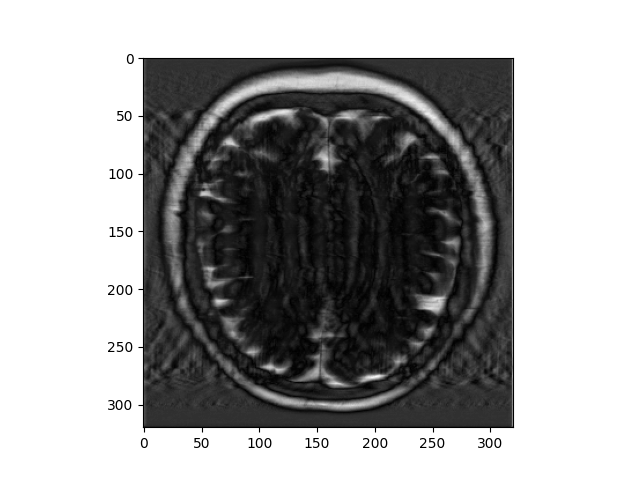
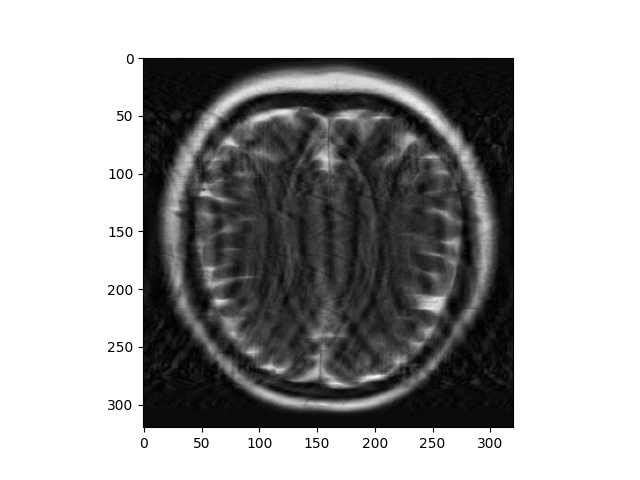
Changes

diff --git a/pnp/run_pnp_multi.py b/pnp/run_pnp_multi.py
@@ -106,8 +106,13 @@ class DataTransform:
         sens = np.ones((320, 320, 2))
         mask = get_gro_mask(kspace.shape)
         masked_kspace = (kspace * mask) + 0.0
-        
-        target = fastmri.complex_abs(fastmri.ifft2c(kspace))
+
+        target = fastmri.ifft2c(kspace).float()
+        #image, mean, std = transforms.normalize_instance(image, eps=1e-11)
+        #image = image.clamp(-6, 6)
+        #
+        #target = transforms.normalize(target, mean, std, eps=1e-11)
+        #target = target.clamp(-6, 6)
 
         return masked_kspace, mask, sens, target, fname, slice
 
@@ -130,9 +135,8 @@ def denoiser(noisy,model,args):
         noisy, scale = transforms.denoiser_normalize(noisy, is_complex=True, use_std=args.normalize=='std')
     elif args.normalize=='constant':
         scale = 0.0016
-        noisy = noisy*(1/scale)
+        noisy = noisy/scale
     else:
-        print('in')
         scale = 1
 
     if args.denoiser_mode=='mag':
@@ -146,7 +150,7 @@ def denoiser(noisy,model,args):
         # move real/imag to channel position
         #noisy, mean, std = transforms.normalize_instance(noisy, eps=1e-11)
         #noisy = noisy.clamp(-6, 6)
-        noisy = noisy.permute(2,0,1).unsqueeze(0)
+        noisy = noisy.float().permute(2,0,1).unsqueeze(0)
         denoised_image = model(noisy).squeeze(0).permute(1,2,0)
 
     elif args.denoiser_mode == 'real-imag':
@@ -243,7 +247,7 @@ def pds_normal(y, model, args, mri, target, max_iter, gamma_1_input, sens_map_fo
 
             x_crop = transforms.complex_abs(x)
 
-            nmse_step = psnr_2(target, x_crop)
+            nmse_step = psnr_2(transforms.complex_abs(target), x_crop)
             print(nmse_step)
             a_nmse.append(nmse_step)
 
@@ -289,10 +293,10 @@ def cs_pnp(args, model, kspace, mask, sens, target):
     sens_map_foo = np.zeros((320,320)).astype(np.complex)
     mri = A_mri(sens_maps, mask)
     target = target.to(device)
-   
-    pred, a_nmse = admm(masked_kspace,model,args,target)
-    # pred, a_nmse, gamma_1_log, gamma_2_log, required_res_norm_log, res_norm_log, input_RMSE, output_RMSE = pds_normal(
-    #     masked_kspace, model, args, mri, target, 50, 400, sens_map_foo)
+
+    #pred, a_nmse = admm(masked_kspace,model,args,target)
+    pred, a_nmse, gamma_1_log, gamma_2_log, required_res_norm_log, res_norm_log, input_RMSE, output_RMSE = pds_normal(
+        masked_kspace, model, args, mri, target, 100, 400, sens_map_foo)
 
     if args.debug:
         plt.plot(a_nmse)
@@ -351,7 +355,7 @@ def admm(y, model, args, target):
         v = x
         u = x * 0
 
-        outer_iters = 100
+        outer_iters = 50
         inner_iters = args.inner_iters
 
         pnp = True
@@ -392,8 +396,8 @@ def admm(y, model, args, target):
 
             # Find psnr at every iteration
             x_crop = transforms.center_crop(transforms.complex_abs(x), (320, 320))
-            nmse_step = psnr_2(target, x_crop)
-
+            nmse_step = psnr_2(transforms.complex_abs(target), x_crop)
+            print(nmse_step)
             a_nmse.append(nmse_step)
         # unnormalize
         if args.normalize == 'kspace':
@@ -504,7 +508,7 @@ if __name__ == '__main__':
     parser.add_argument("--debug", default=True, action="store_true" , help="Debug mode")
     parser.add_argument("--test-idx", type=int, default=1, help="test index image for debug mode")
     parser.add_argument("--natural-image", default=False, action="store_true", help="Uses a pretrained DnCNN rather than a custom trained network")
-    parser.add_argument("--normalize", type=str, default=None, help="Type of normalization going into denoiser (None, 'max', 'std')")
+    parser.add_argument("--normalize", type=str, default='constant', help="Type of normalization going into denoiser (None, 'max', 'std')")
     parser.add_argument('--rotation-angles', type=int, default=0, help='number of rotation angles to try (<1 gives no rotation)')
     parser.add_argument("--accel", default=False, action='store_true', help="apply nesterov acceleration")
     parser.add_argument("--use-mid-slices", default=False, action='store_true', help="use only middle slices")

diff --git a/utils/fastmri/models/PnP/train_denoiser_multicoil_brain.py b/utils/fastmri/models/PnP/train_denoiser_multicoil_brain.py
@@ -110,7 +110,7 @@ class DataTransform:
     Data Transformer for training U-Net models.
     """
 
-    def __init__(self, noise_std, resolution=None, mag_only=False, normalize=None, rotation_angles=0,random_crop=True, rss_target=False, train_data=True, image_size = 384):
+    def __init__(self, noise_std, resolution=None, mag_only=False, normalize=None, rotation_angles=0,random_crop=True, rss_target=False, train_data=True, image_size = 320):
         """
         Args:
             mask_func (common.subsample.MaskFunc): A function that can create a mask of
@@ -158,10 +158,9 @@ class DataTransform:
         kspace = transforms.to_tensor(kspace)
         # kspace = (kspace * mask) + 0.0
         image = fastmri.ifft2c(kspace) #(320, 320)
-
         image, rot_angle = transforms.best_rotate(image, self.num_angles)
 
-        scale = 1 # constant scale
+        scale = 0.0016 # constant scale
         image = image/scale
 
         scale = torch.tensor([scale], dtype=torch.float)
@@ -180,7 +179,7 @@ class DataTransform:
 
         image = image.permute(2,0,1)
         target = target.permute(2,0,1)
-        
+
         return image, target, scale, attrs['norm'].astype(np.float32), rot_angle
 
 
@@ -478,13 +477,13 @@ def create_arg_parser():
     # parser.add_argument('--mag-only', action='store_true', help='denoise mag only')
     parser.add_argument('--denoiser-mode', type=str, default='2-chan')
     parser.add_argument('--rotation-angles', type=int, default=0, help='number of rotation angles to try (<1 gives no rotation)')
-    parser.add_argument('--normalize', type=str, default='std', help='normalization type (None "std", "constant", "kspace", or "max")')
+    parser.add_argument('--normalize', type=str, default='constant', help='normalization type (None "std", "constant", "kspace", or "max")')
     parser.add_argument('--std', type=float, default=0.02, help='standard dev of denoiser')
     parser.add_argument('--image-size', default=320, type=int, help='image size (this is bigger than 320x320)')
     parser.add_argument('--batch-size', default=32, type=int, help='Mini batch size') #Ted used 16
-    parser.add_argument('--patch-size', default=64, type=int, help='training patch size')
-    parser.add_argument('--val-patch-size', default=384, type=int, help='val patch size')
-    parser.add_argument('--num-epochs', type=int, default=100, help='Number of training epochs') #old value 300
+    parser.add_argument('--patch-size', default=320, type=int, help='training patch size')
+    parser.add_argument('--val-patch-size', default=320, type=int, help='val patch size')
+    parser.add_argument('--num-epochs', type=int, default=40, help='Number of training epochs') #old value 300
     parser.add_argument('--lr', type=float, default=1e-3, help='Learning rate') # Ted's default was 1e-3
     parser.add_argument('--lr-step-size', type=int, default=20,
                         help='Period of learning rate decay') #old value 100

diff --git a/pnp/test_denoiser.py b/pnp/test_denoiser.py
@@ -46,8 +46,6 @@ def psnr_2(gt, pred, zf=None):
     """ Compute Normalized Mean Squared Error (NMSE) """
     gt = gt.cpu().numpy()
     pred = pred.cpu().numpy()
-    plt.imshow(gt,cmap='gray')
-    plt.savefig('other.png')
     return peak_signal_noise_ratio(gt, pred, data_range=gt.max())
 
 
@@ -127,7 +125,7 @@ def denoiser(noisy, model, args):
     elif args.normalize == 'constant':
         print('in here')
         scale = 0.0016
-        noisy = noisy * (1 / scale)
+        noisy = noisy / scale
     else:
         scale = 1
 
@@ -200,9 +198,16 @@ def main(args):
         complex_image = fastmri.ifft2c(kspace)
         zfr = fastmri.ifft2c(zf_kspace)
         print(f'TEST PSNR: {psnr_2(fastmri.complex_abs(complex_image),fastmri.complex_abs(zfr))}')
-        noisy = complex_image + 0.2 * torch.randn(complex_image.size())
+        noisy = complex_image + 0.02 * torch.randn(complex_image.size())
+        #noisy, mean, std = transforms.normalize_instance(noisy, eps=1e-11)
+        #noisy = noisy.clamp(-6, 6)
+        #
+        #complex_image = transforms.normalize(complex_image, mean, std, eps=1e-11)
+        #complex_image = complex_image.clamp(-6, 6)
         denoised = denoiser(noisy, model, args)
         print(f'PRE PSNR: {psnr_2(fastmri.complex_abs(complex_image),fastmri.complex_abs(noisy))}\nPOST PSNR: {psnr_2(fastmri.complex_abs(complex_image),fastmri.complex_abs(denoised).detach())}')
+        #plt.imshow(np.abs(fastmri.complex_abs(denoised).detach().cpu().numpy()),cmap='gray')
+        #plt.savefig('denoised.png')
 
 
 if __name__ == '__main__':
@@ -236,7 +241,7 @@ if __name__ == '__main__':
     parser.add_argument("--test-idx", type=int, default=1, help="test index image for debug mode")
     parser.add_argument("--natural-image", default=False, action="store_true",
                         help="Uses a pretrained DnCNN rather than a custom trained network")
-    parser.add_argument("--normalize", type=str, default=None,
+    parser.add_argument("--normalize", type=str, default='constant',
                         help="Type of normalization going into denoiser (None, 'max', 'std')")
     parser.add_argument('--rotation-angles', type=int, default=0,
                         help='number of rotation angles to try (<1 gives no rotation)')
